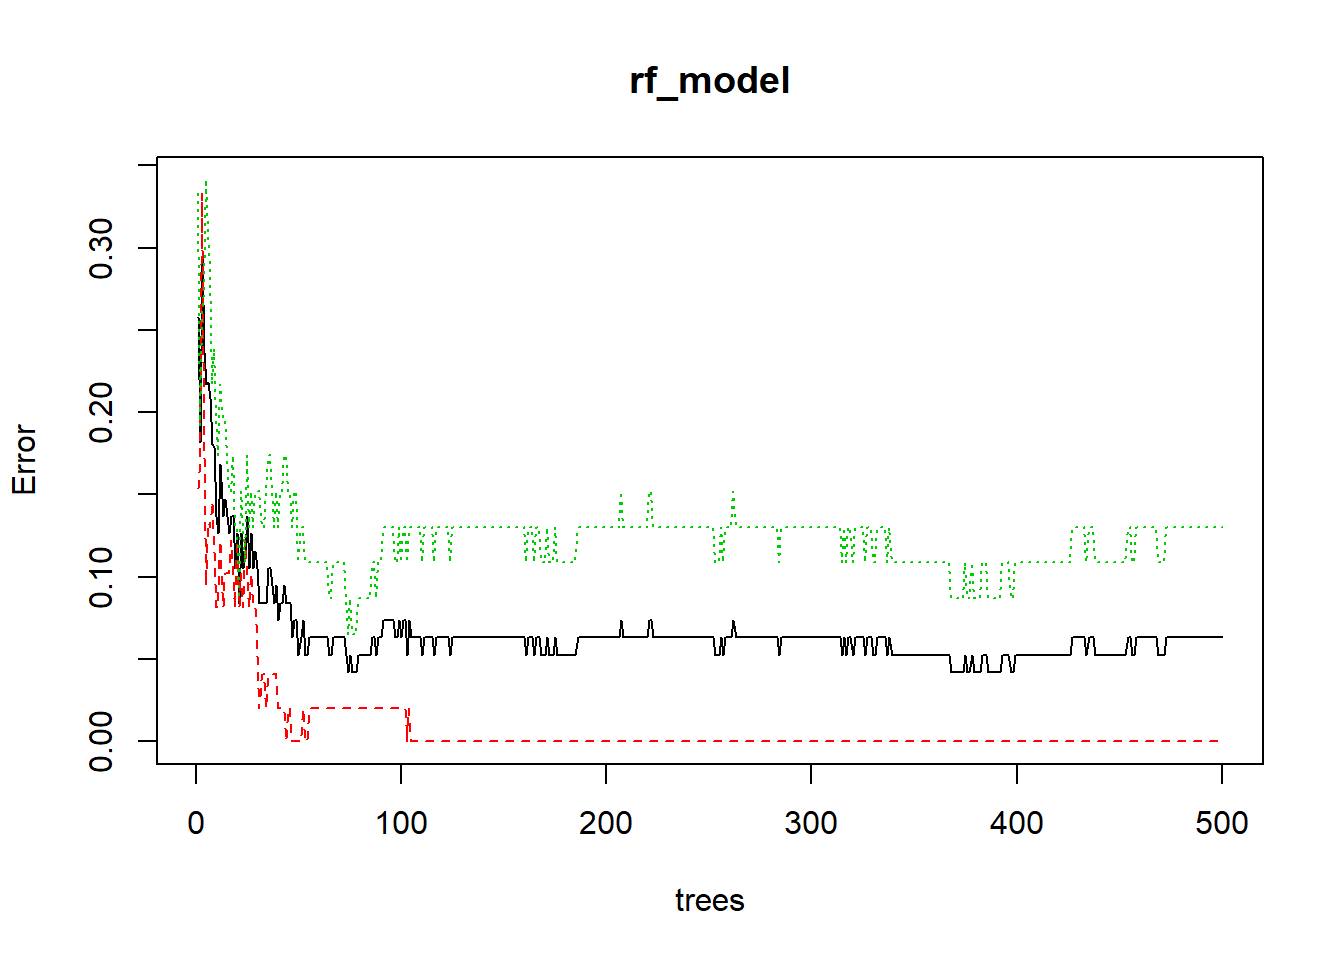
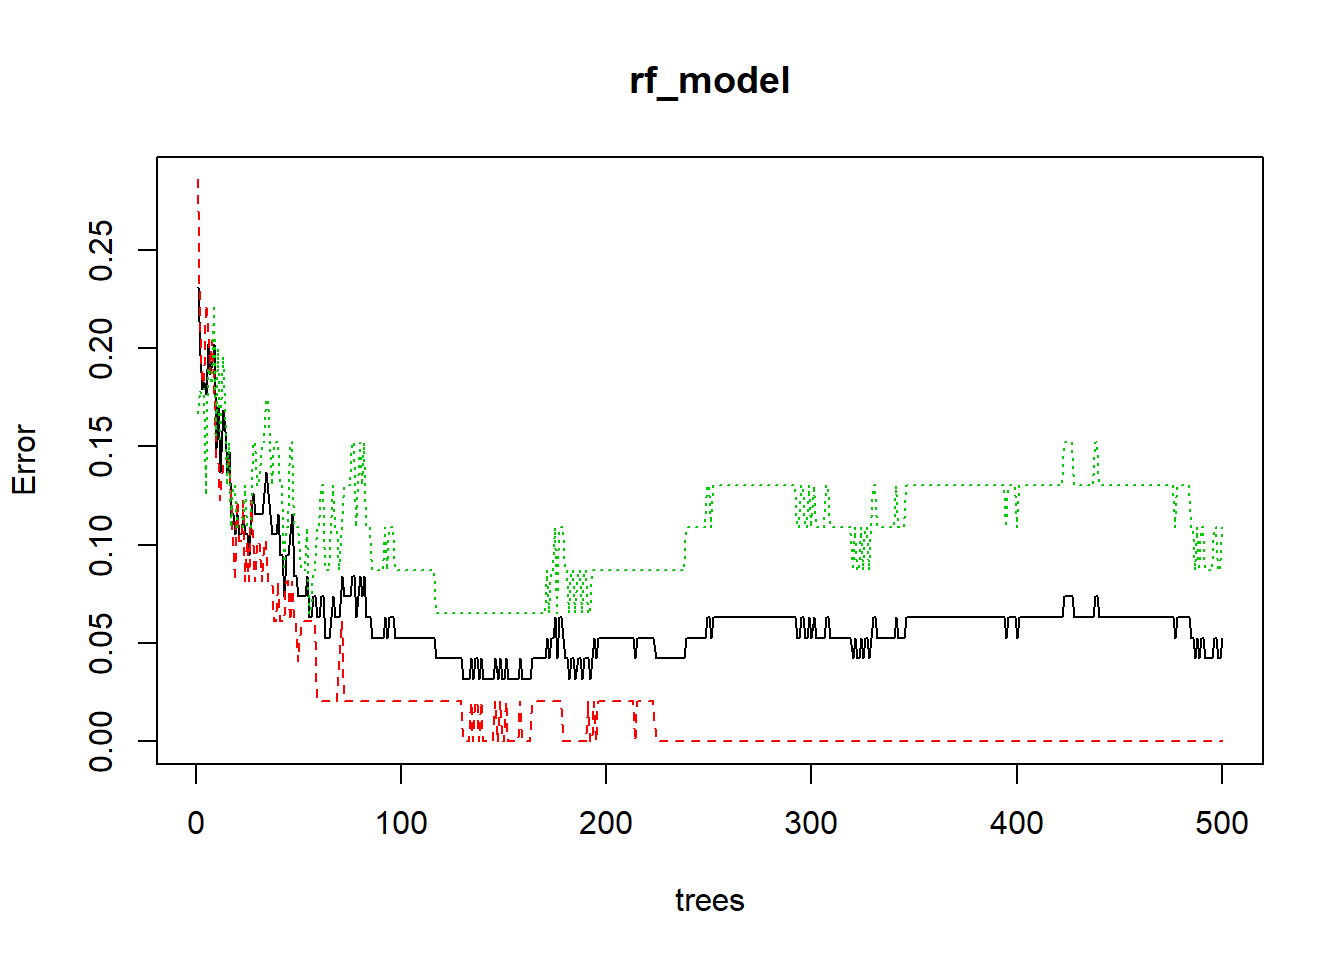
'crefix'

diff --git a/public/post/2020/02/10/cre-data-features-selection/index.html b/public/post/2020/02/10/cre-data-features-selection/index.html
@@ -4926,63 +4926,63 @@ bestdf$CRE &lt;- as.factor(c(rep(1,46),rep(0,49)))</code></pre>
 plot(rf_model)</code></pre>
 <p><img src="/post/2020-02-10-cre-data-features-selection_files/figure-html/unnamed-chunk-3-1.png" width="672" /></p>
 <pre class="r"><code>which.min(rf_model$err.rate[,1])</code></pre>
-<pre><code>## [1] 74</code></pre>
+<pre><code>## [1] 130</code></pre>
 <pre class="r"><code>A = as.data.frame(rf_model$importance)
 A$names &lt;- row.names(A)
 A = A[order(A$MeanDecreaseGini,decreasing = T),]
 impo &lt;- A[1:50,2]
 A[c(1:50),]</code></pre>
 <pre><code>##       MeanDecreaseGini names
-## V1426        1.1834974 V1426
-## V1428        1.1720606 V1428
-## V609         1.1346092  V609
-## V994         1.0165750  V994
-## V1380        0.9374424 V1380
-## V172         0.9354806  V172
-## V1228        0.8636190 V1228
-## V935         0.8301419  V935
-## V830         0.7208998  V830
-## V1232        0.7141549 V1232
-## V931         0.7061418  V931
-## V84          0.6654969   V84
-## V32          0.6323930   V32
-## V205         0.6173588  V205
-## V1422        0.6090248 V1422
-## V227         0.5642872  V227
-## V288         0.5503869  V288
-## V242         0.5167885  V242
-## V1251        0.5014634 V1251
-## V37          0.4828901   V37
-## V819         0.4435789  V819
-## V480         0.4415222  V480
-## V1383        0.4247905 V1383
-## V1072        0.3728059 V1072
-## V131         0.3715223  V131
-## V1           0.3439218    V1
-## V1225        0.3430812 V1225
-## V63          0.3287690   V63
-## V473         0.3279806  V473
-## V306         0.3247634  V306
-## V328         0.3116401  V328
-## V188         0.3001575  V188
-## V420         0.2985464  V420
-## V834         0.2972513  V834
-## V4           0.2820016    V4
-## V92          0.2658130   V92
-## V222         0.2602544  V222
-## V1061        0.2516779 V1061
-## V181         0.2499993  V181
-## V218         0.2499116  V218
-## V975         0.2429895  V975
-## V21          0.2417658   V21
-## V20          0.2384349   V20
-## V3           0.2373746    V3
-## V224         0.2316701  V224
-## V129         0.2313994  V129
-## V9           0.2283912    V9
-## V264         0.2260261  V264
-## V611         0.2234616  V611
-## V123         0.2215867  V123</code></pre>
+## V994         1.4081240  V994
+## V609         1.1766118  V609
+## V1426        1.1419769 V1426
+## V1428        1.0253725 V1428
+## V1251        0.8610926 V1251
+## V931         0.8480539  V931
+## V205         0.8263031  V205
+## V172         0.7950854  V172
+## V1228        0.7435799 V1228
+## V37          0.6530718   V37
+## V288         0.6421747  V288
+## V242         0.6185031  V242
+## V935         0.6005225  V935
+## V1232        0.5621623 V1232
+## V264         0.5597400  V264
+## V227         0.5562529  V227
+## V1380        0.5561197 V1380
+## V32          0.5553537   V32
+## V1422        0.4995243 V1422
+## V819         0.4982642  V819
+## V473         0.4902241  V473
+## V328         0.4609527  V328
+## V1383        0.4406418 V1383
+## V84          0.4260847   V84
+## V830         0.3931476  V830
+## V1           0.3855232    V1
+## V131         0.3836959  V131
+## V420         0.3690650  V420
+## V1072        0.3669098 V1072
+## V975         0.3294655  V975
+## V834         0.3249310  V834
+## V92          0.3201629   V92
+## V216         0.3092701  V216
+## V9           0.3068394    V9
+## V306         0.2959827  V306
+## V129         0.2722810  V129
+## V181         0.2597386  V181
+## V1225        0.2537217 V1225
+## V218         0.2452925  V218
+## V188         0.2417646  V188
+## V313         0.2398082  V313
+## V187         0.2382702  V187
+## V389         0.2376730  V389
+## V480         0.2355510  V480
+## V831         0.2245495  V831
+## V228         0.2171766  V228
+## V542         0.2153996  V542
+## V1073        0.2140407 V1073
+## V179         0.2072366  V179
+## V1061        0.2019502 V1061</code></pre>
 <pre class="r"><code>impodf = data[,impo]
 impodf$CRE &lt;- as.factor(c(rep(1,46),rep(0,49)))</code></pre>
 </div>
@@ -5487,7 +5487,7 @@ label</code></pre>
 ## 104 0.8315789 0.8031579
 ## 105 0.8736842 0.8894737
 ## 106 0.8947368 0.9126316</code></pre>
-<p>The link of the label.csv:<a href="https://studentnsysuedutw-my.sharepoint.com/❌/g/personal/m072040030_student_nsysu_edu_tw/EYwoKAr8XOlFm1I8k0VirVgBqPQ13h-RlyFu9oycsf6lwA?e=Ghlwsf" class="uri">https://studentnsysuedutw-my.sharepoint.com/❌/g/personal/m072040030_student_nsysu_edu_tw/EYwoKAr8XOlFm1I8k0VirVgBqPQ13h-RlyFu9oycsf6lwA?e=Ghlwsf</a></p>
+<p>The link of the label.csv:<a href="https://reurl.cc/e5ejOQ" class="uri">https://reurl.cc/e5ejOQ</a></p>
 </div>
 
 </main>

diff --git a/content/post/2020-02-10-cre-data-features-selection.html b/content/post/2020-02-10-cre-data-features-selection.html
@@ -4867,63 +4867,63 @@ bestdf$CRE &lt;- as.factor(c(rep(1,46),rep(0,49)))</code></pre>
 plot(rf_model)</code></pre>
 <p><img src="/post/2020-02-10-cre-data-features-selection_files/figure-html/unnamed-chunk-3-1.png" width="672" /></p>
 <pre class="r"><code>which.min(rf_model$err.rate[,1])</code></pre>
-<pre><code>## [1] 74</code></pre>
+<pre><code>## [1] 130</code></pre>
 <pre class="r"><code>A = as.data.frame(rf_model$importance)
 A$names &lt;- row.names(A)
 A = A[order(A$MeanDecreaseGini,decreasing = T),]
 impo &lt;- A[1:50,2]
 A[c(1:50),]</code></pre>
 <pre><code>##       MeanDecreaseGini names
-## V1426        1.1834974 V1426
-## V1428        1.1720606 V1428
-## V609         1.1346092  V609
-## V994         1.0165750  V994
-## V1380        0.9374424 V1380
-## V172         0.9354806  V172
-## V1228        0.8636190 V1228
-## V935         0.8301419  V935
-## V830         0.7208998  V830
-## V1232        0.7141549 V1232
-## V931         0.7061418  V931
-## V84          0.6654969   V84
-## V32          0.6323930   V32
-## V205         0.6173588  V205
-## V1422        0.6090248 V1422
-## V227         0.5642872  V227
-## V288         0.5503869  V288
-## V242         0.5167885  V242
-## V1251        0.5014634 V1251
-## V37          0.4828901   V37
-## V819         0.4435789  V819
-## V480         0.4415222  V480
-## V1383        0.4247905 V1383
-## V1072        0.3728059 V1072
-## V131         0.3715223  V131
-## V1           0.3439218    V1
-## V1225        0.3430812 V1225
-## V63          0.3287690   V63
-## V473         0.3279806  V473
-## V306         0.3247634  V306
-## V328         0.3116401  V328
-## V188         0.3001575  V188
-## V420         0.2985464  V420
-## V834         0.2972513  V834
-## V4           0.2820016    V4
-## V92          0.2658130   V92
-## V222         0.2602544  V222
-## V1061        0.2516779 V1061
-## V181         0.2499993  V181
-## V218         0.2499116  V218
-## V975         0.2429895  V975
-## V21          0.2417658   V21
-## V20          0.2384349   V20
-## V3           0.2373746    V3
-## V224         0.2316701  V224
-## V129         0.2313994  V129
-## V9           0.2283912    V9
-## V264         0.2260261  V264
-## V611         0.2234616  V611
-## V123         0.2215867  V123</code></pre>
+## V994         1.4081240  V994
+## V609         1.1766118  V609
+## V1426        1.1419769 V1426
+## V1428        1.0253725 V1428
+## V1251        0.8610926 V1251
+## V931         0.8480539  V931
+## V205         0.8263031  V205
+## V172         0.7950854  V172
+## V1228        0.7435799 V1228
+## V37          0.6530718   V37
+## V288         0.6421747  V288
+## V242         0.6185031  V242
+## V935         0.6005225  V935
+## V1232        0.5621623 V1232
+## V264         0.5597400  V264
+## V227         0.5562529  V227
+## V1380        0.5561197 V1380
+## V32          0.5553537   V32
+## V1422        0.4995243 V1422
+## V819         0.4982642  V819
+## V473         0.4902241  V473
+## V328         0.4609527  V328
+## V1383        0.4406418 V1383
+## V84          0.4260847   V84
+## V830         0.3931476  V830
+## V1           0.3855232    V1
+## V131         0.3836959  V131
+## V420         0.3690650  V420
+## V1072        0.3669098 V1072
+## V975         0.3294655  V975
+## V834         0.3249310  V834
+## V92          0.3201629   V92
+## V216         0.3092701  V216
+## V9           0.3068394    V9
+## V306         0.2959827  V306
+## V129         0.2722810  V129
+## V181         0.2597386  V181
+## V1225        0.2537217 V1225
+## V218         0.2452925  V218
+## V188         0.2417646  V188
+## V313         0.2398082  V313
+## V187         0.2382702  V187
+## V389         0.2376730  V389
+## V480         0.2355510  V480
+## V831         0.2245495  V831
+## V228         0.2171766  V228
+## V542         0.2153996  V542
+## V1073        0.2140407 V1073
+## V179         0.2072366  V179
+## V1061        0.2019502 V1061</code></pre>
 <pre class="r"><code>impodf = data[,impo]
 impodf$CRE &lt;- as.factor(c(rep(1,46),rep(0,49)))</code></pre>
 </div>
@@ -5428,5 +5428,5 @@ label</code></pre>
 ## 104 0.8315789 0.8031579
 ## 105 0.8736842 0.8894737
 ## 106 0.8947368 0.9126316</code></pre>
-<p>The link of the label.csv:<a href="https://studentnsysuedutw-my.sharepoint.com/:x:/g/personal/m072040030_student_nsysu_edu_tw/EYwoKAr8XOlFm1I8k0VirVgBqPQ13h-RlyFu9oycsf6lwA?e=Ghlwsf" class="uri">https://studentnsysuedutw-my.sharepoint.com/:x:/g/personal/m072040030_student_nsysu_edu_tw/EYwoKAr8XOlFm1I8k0VirVgBqPQ13h-RlyFu9oycsf6lwA?e=Ghlwsf</a></p>
+<p>The link of the label.csv:<a href="https://reurl.cc/e5ejOQ" class="uri">https://reurl.cc/e5ejOQ</a></p>
 </div>
